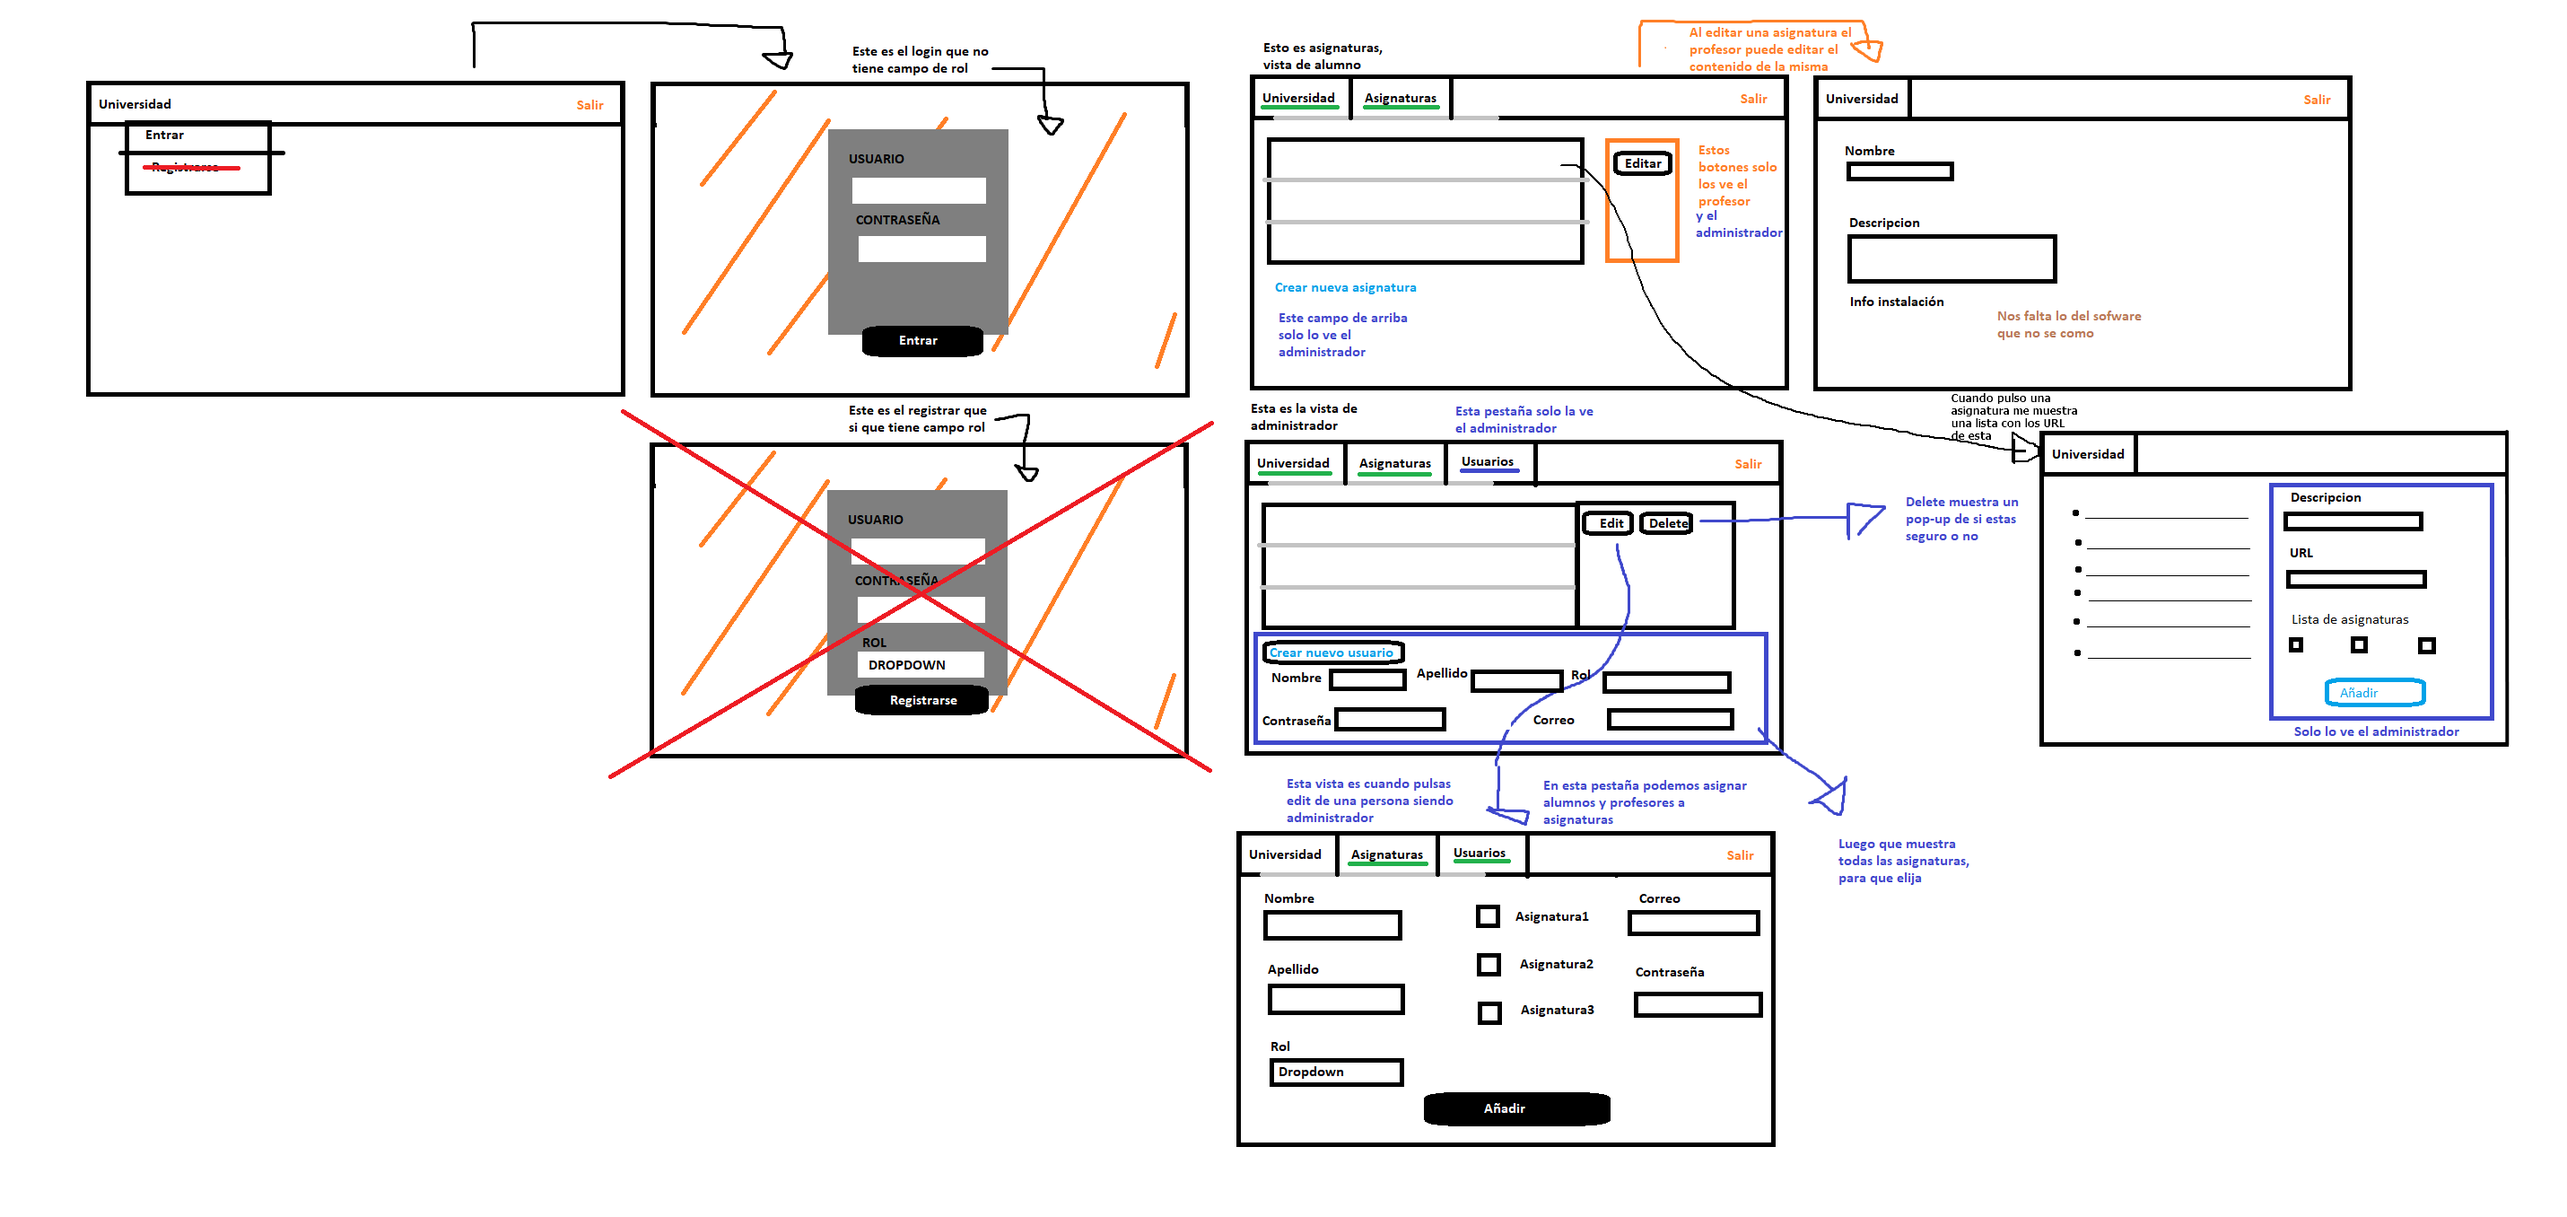
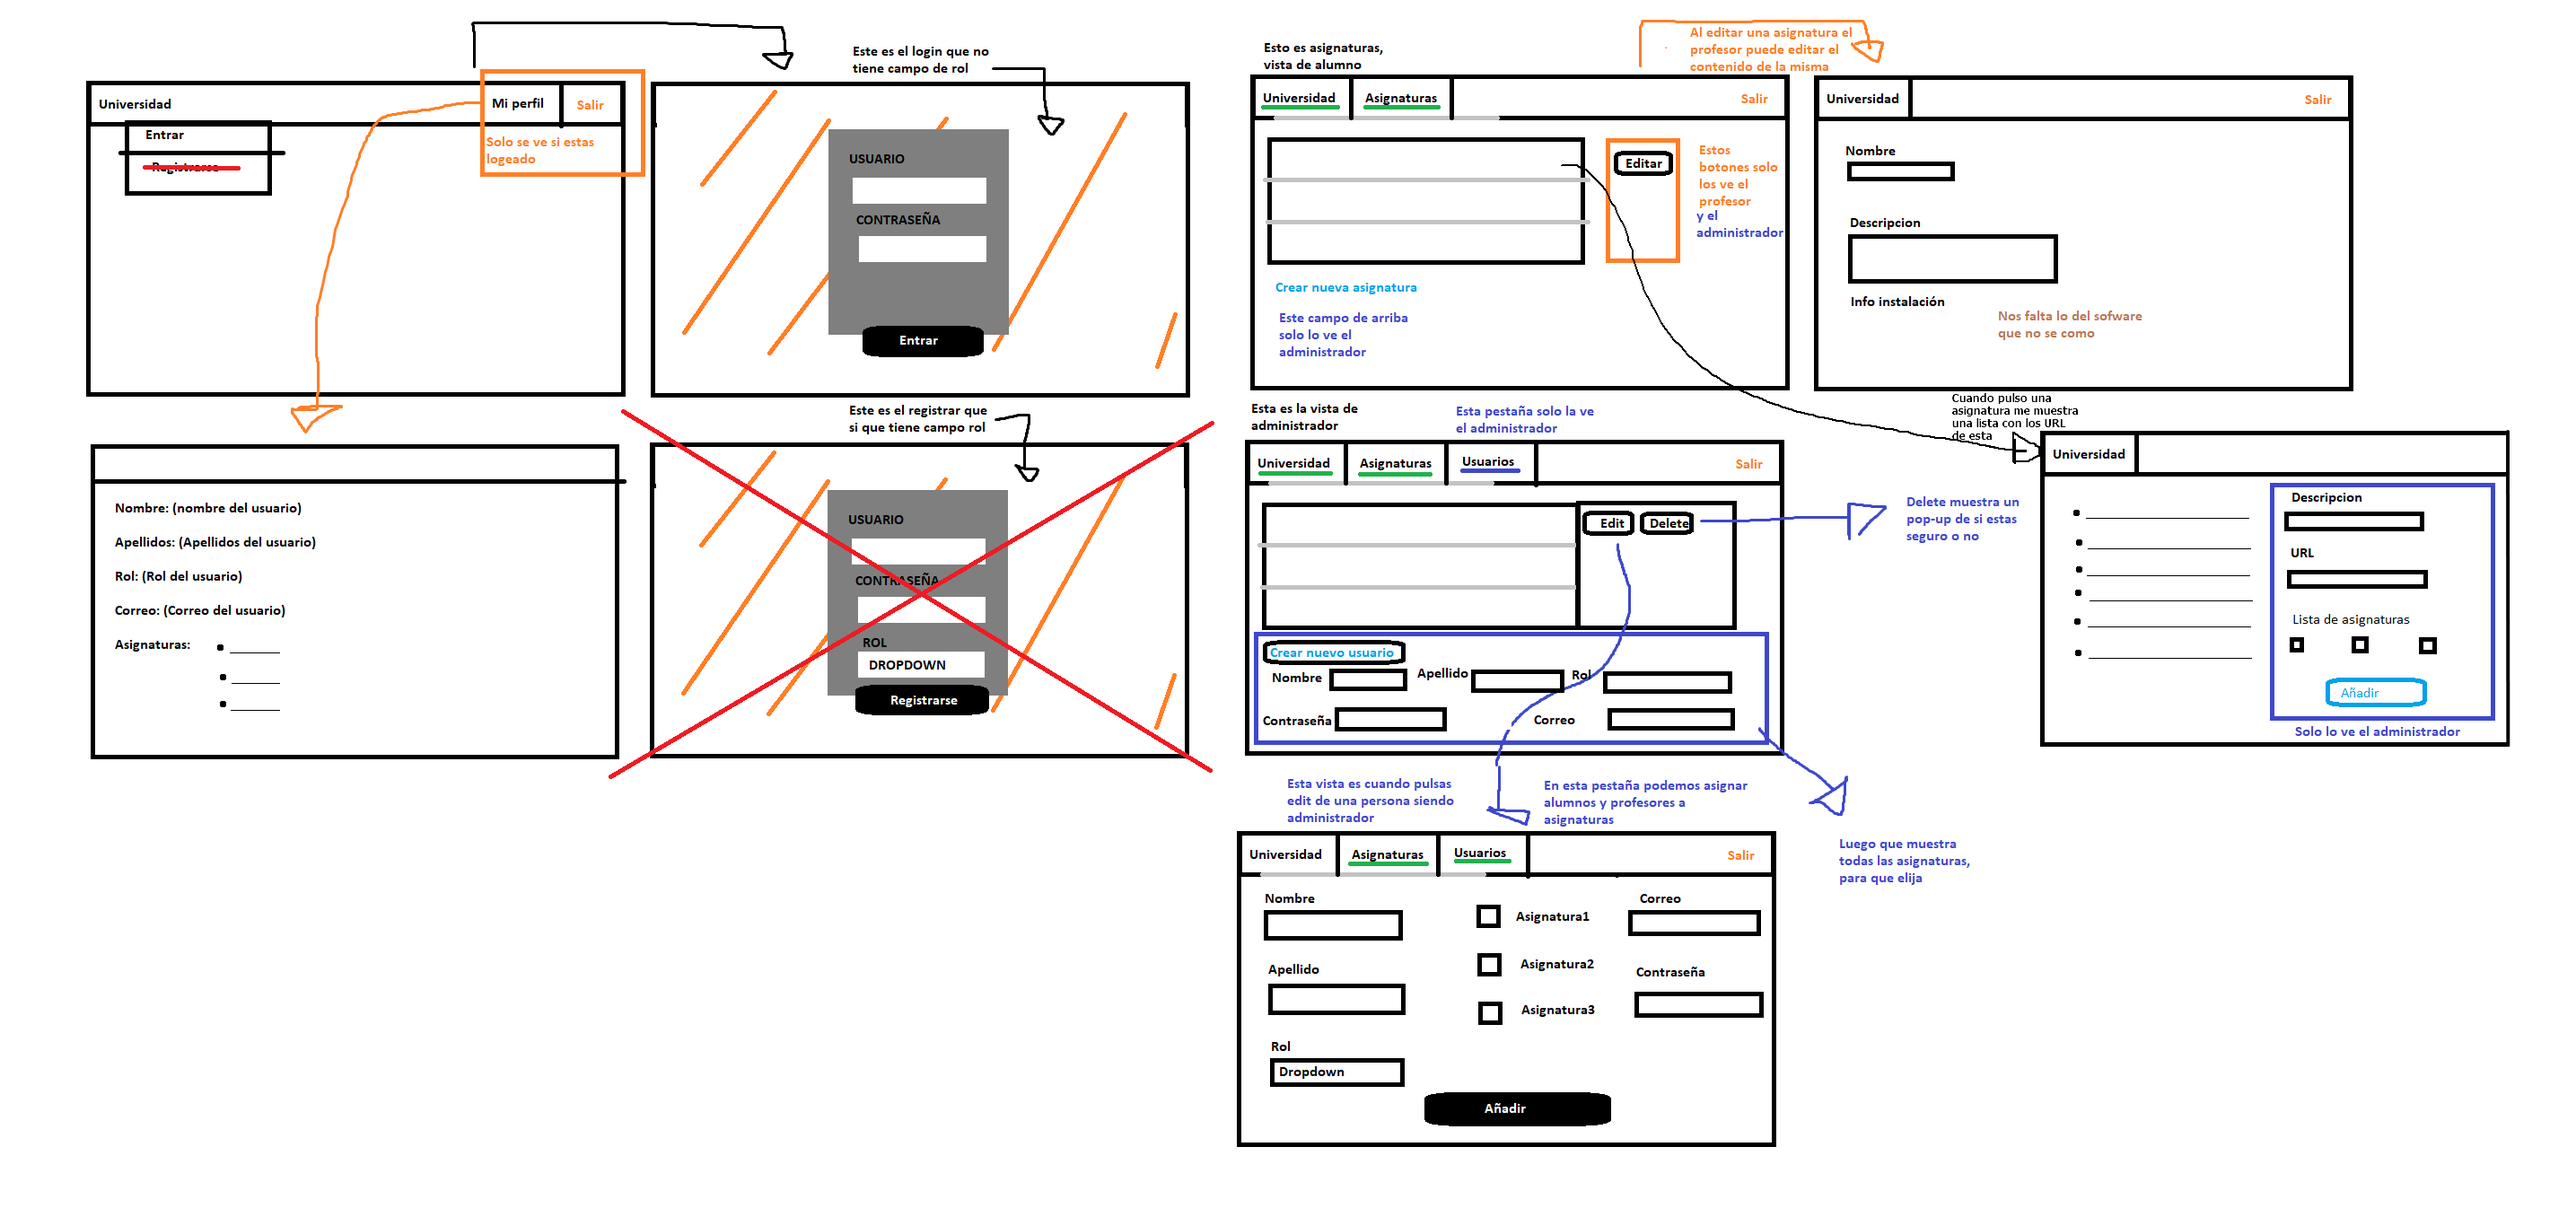
Movido mi perfil y cerrar sesion a la derecha, intento de hacer info de usuario

diff --git a/NodeJsMongoDBCrudLogin -Andrea,Alejandra,Natalia/routes/usuarios.js b/NodeJsMongoDBCrudLogin -Andrea,Alejandra,Natalia/routes/usuarios.js
@@ -83,6 +83,11 @@ router.get('/usuarios', (req, res, next) => {
   res.render('usuarios');
 });
 
+router.get('/info_usuarios', (req, res, next) => {
+  res.render('info_usuarios');
+});
+
+
 
 router.post('/signin', passport.authenticate('local-signin', {
   successRedirect: '/profile',
